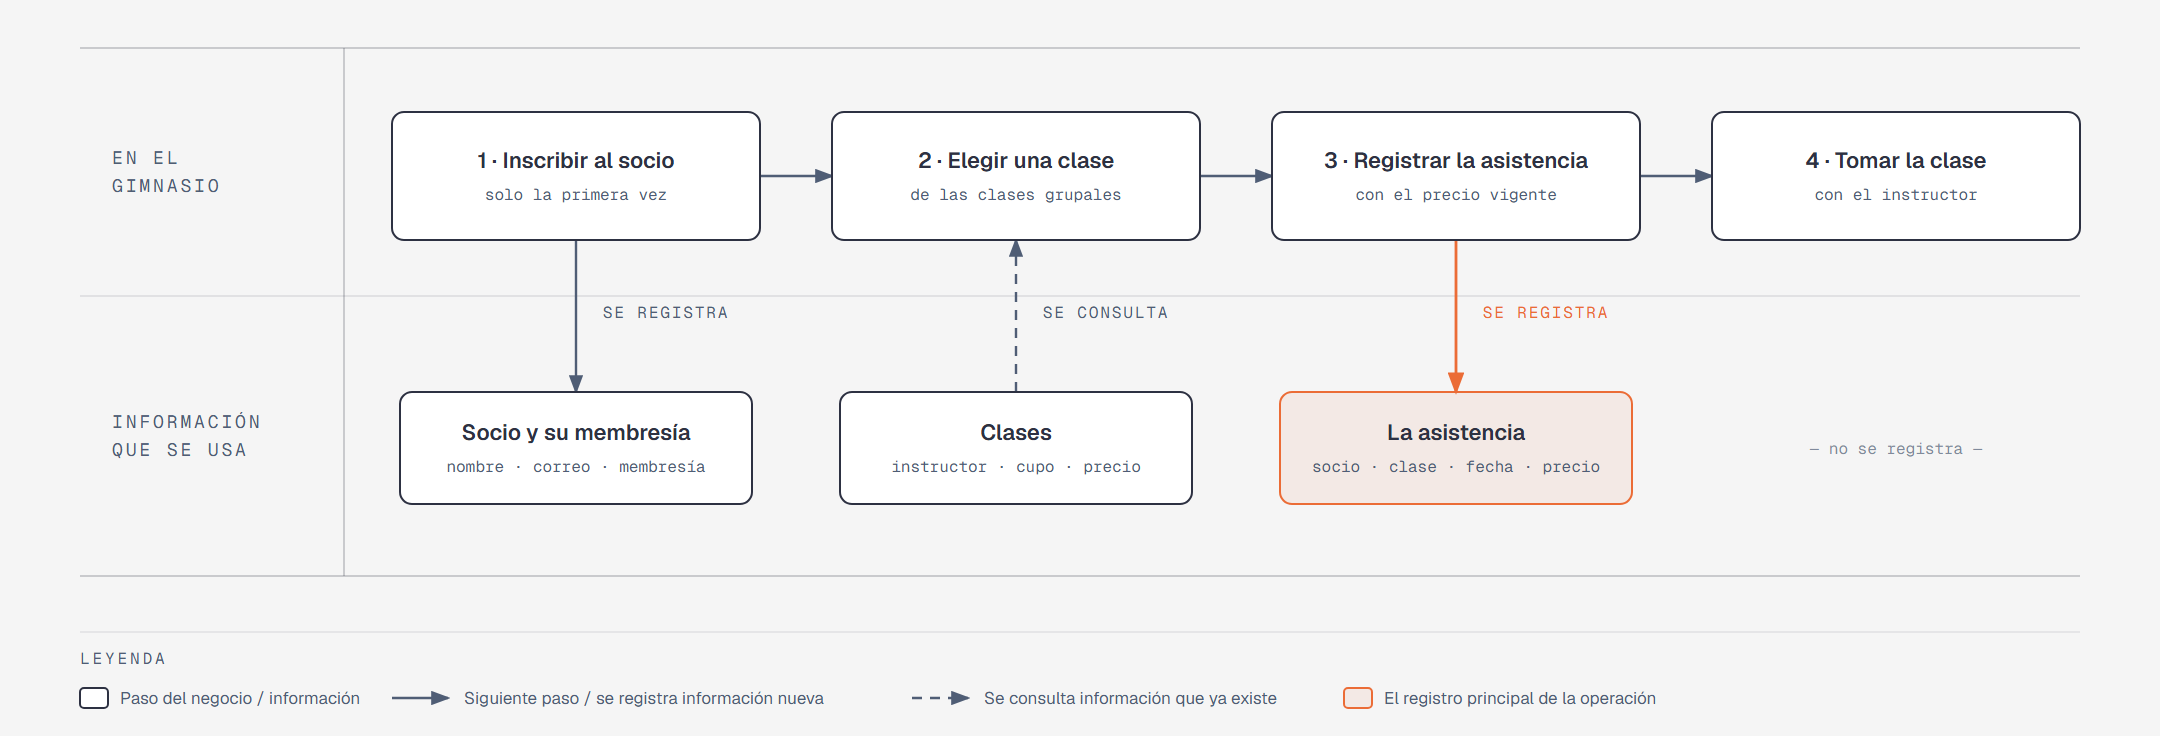
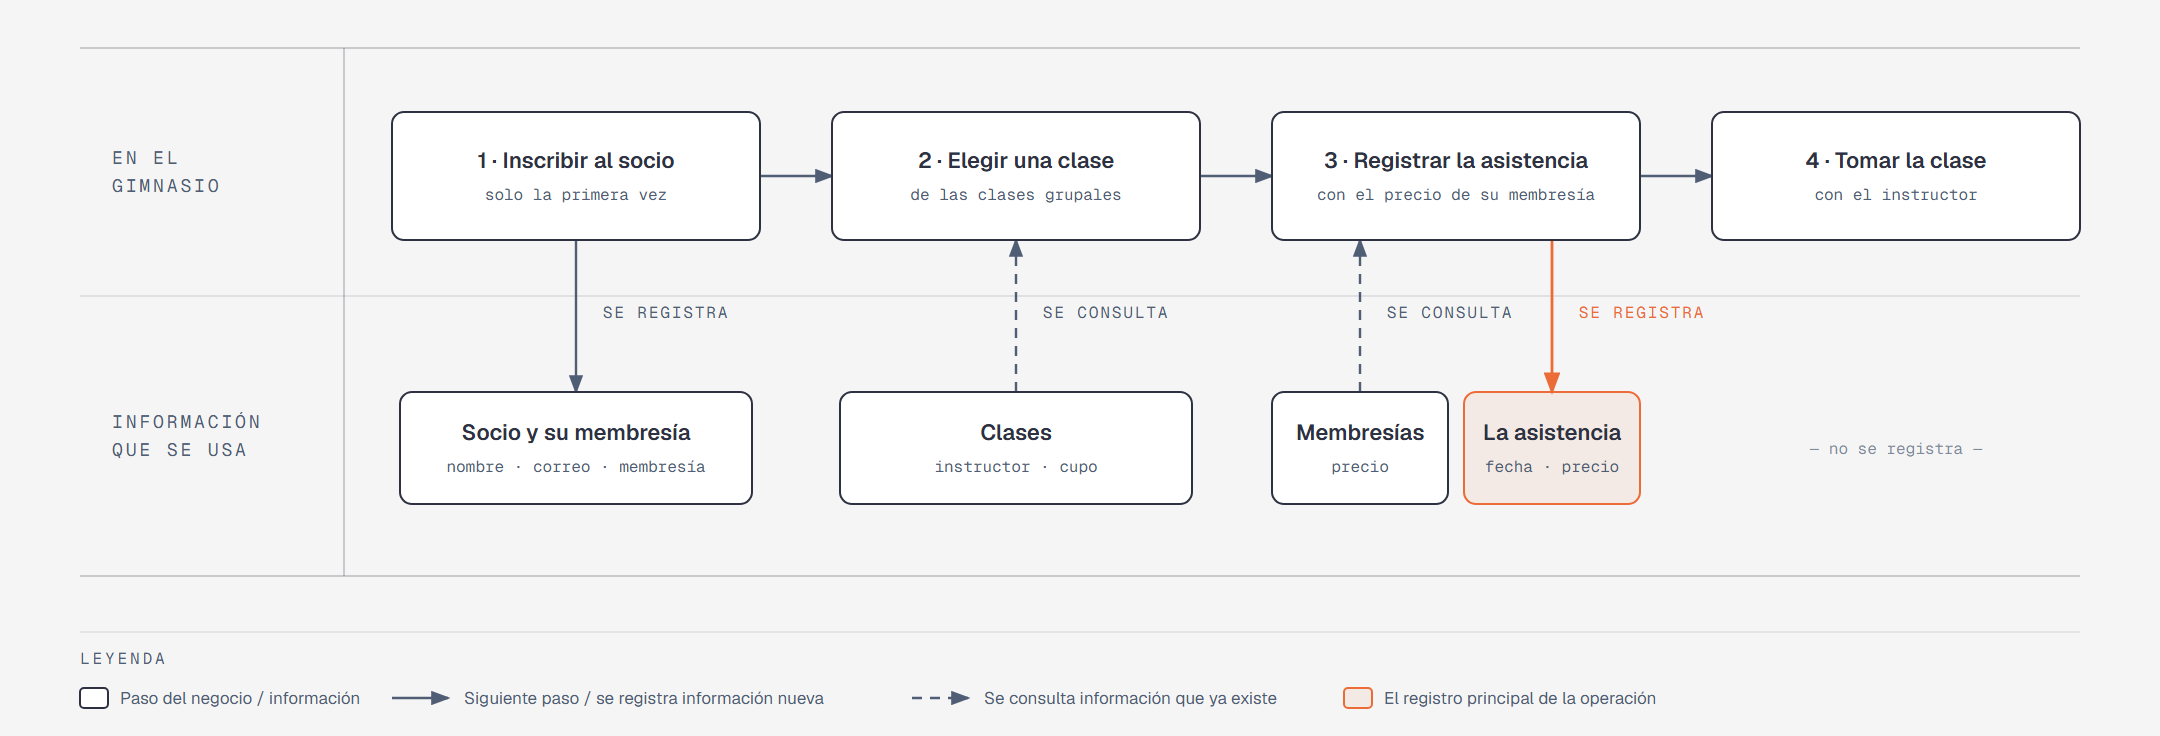
fix: FitZone define solo las membresías y el precio por clase depende de la membresía
Igual que BiciRuta, el negocio solo define el catálogo (tipos de membresía con costo mensual y precio por clase actual y anterior); las clases, los socios y las asistencias los inventa el alumno. Cada asistencia copia el precio por clase de la membresía del socio vigente en su fecha.

diff --git a/base-datos-1/3ra-5ta-oportunidad/alumnos/assets/alumno-02/flujo-negocio.html b/base-datos-1/3ra-5ta-oportunidad/alumnos/assets/alumno-02/flujo-negocio.html
@@ -22,7 +22,7 @@
     <div class="scroll">
     <svg viewBox="0 0 1080 368" xmlns="http://www.w3.org/2000/svg" role="img" aria-labelledby="flujo-negocio-title flujo-negocio-desc">
       <title id="flujo-negocio-title">FitZone · una clase de principio a fin</title>
-      <desc id="flujo-negocio-desc">Diagrama de carriles: el socio se inscribe la primera vez con un tipo de membresía, elige una clase grupal, paga el precio por clase vigente y toma la clase; abajo, la información que cada paso consulta o registra.</desc>
+      <desc id="flujo-negocio-desc">Diagrama de carriles: el socio se inscribe la primera vez con un tipo de membresía, elige una clase grupal, se registra la asistencia con el precio por clase vigente de su membresía y toma la clase; abajo, la información que cada paso consulta o registra.</desc>
       <defs>
         <marker id="arrow" markerWidth="8" markerHeight="6" refX="7" refY="3" orient="auto"><polygon points="0 0, 8 3, 0 6" fill="#4f5d75"/></marker>
         <marker id="arrow-accent" markerWidth="8" markerHeight="6" refX="7" refY="3" orient="auto"><polygon points="0 0, 8 3, 0 6" fill="#eb6c36"/></marker>
@@ -41,13 +41,16 @@
 <line x1="820" y1="88" x2="856" y2="88" stroke="#4f5d75" stroke-width="1.2" marker-end="url(#arrow)"/>
 <line x1="288" y1="120" x2="288" y2="196" stroke="#4f5d75" stroke-width="1.2" marker-end="url(#arrow)"/>
 <line x1="508" y1="196" x2="508" y2="120" stroke="#4f5d75" stroke-width="1.2" stroke-dasharray="5,4" marker-end="url(#arrow)"/>
-<line x1="728" y1="120" x2="728" y2="196" stroke="#eb6c36" stroke-width="1.4" marker-end="url(#arrow-accent)"/>
+<line x1="680" y1="196" x2="680" y2="120" stroke="#4f5d75" stroke-width="1.2" stroke-dasharray="5,4" marker-end="url(#arrow)"/>
+<line x1="776" y1="120" x2="776" y2="196" stroke="#eb6c36" stroke-width="1.4" marker-end="url(#arrow-accent)"/>
       <rect x="296" y="150" width="74" height="12" rx="2" fill="#f5f5f5"/>
 <text x="333" y="159" fill="#4f5d75" font-size="8" font-family="'Geist Mono', monospace" text-anchor="middle" letter-spacing="0.12em">SE REGISTRA</text>
 <rect x="516" y="150" width="74" height="12" rx="2" fill="#f5f5f5"/>
 <text x="553" y="159" fill="#4f5d75" font-size="8" font-family="'Geist Mono', monospace" text-anchor="middle" letter-spacing="0.12em">SE CONSULTA</text>
-<rect x="736" y="150" width="74" height="12" rx="2" fill="#f5f5f5"/>
-<text x="773" y="159" fill="#eb6c36" font-size="8" font-family="'Geist Mono', monospace" text-anchor="middle" letter-spacing="0.12em">SE REGISTRA</text>
+<rect x="688" y="150" width="74" height="12" rx="2" fill="#f5f5f5"/>
+<text x="725" y="159" fill="#4f5d75" font-size="8" font-family="'Geist Mono', monospace" text-anchor="middle" letter-spacing="0.12em">SE CONSULTA</text>
+<rect x="784" y="150" width="74" height="12" rx="2" fill="#f5f5f5"/>
+<text x="821" y="159" fill="#eb6c36" font-size="8" font-family="'Geist Mono', monospace" text-anchor="middle" letter-spacing="0.12em">SE REGISTRA</text>
       <rect x="196" y="56" width="184" height="64" rx="6" fill="#ffffff" stroke="#2d3142" stroke-width="1"/>
 <text x="288" y="84" fill="#2d3142" font-size="11" font-family="'Geist', sans-serif" text-anchor="middle" font-weight="600">1 · Inscribir al socio</text>
 <text x="288" y="100" fill="#4f5d75" font-size="8" font-family="'Geist Mono', monospace" text-anchor="middle">solo la primera vez</text>
@@ -56,7 +59,7 @@
 <text x="508" y="100" fill="#4f5d75" font-size="8" font-family="'Geist Mono', monospace" text-anchor="middle">de las clases grupales</text>
 <rect x="636" y="56" width="184" height="64" rx="6" fill="#ffffff" stroke="#2d3142" stroke-width="1"/>
 <text x="728" y="84" fill="#2d3142" font-size="11" font-family="'Geist', sans-serif" text-anchor="middle" font-weight="600">3 · Registrar la asistencia</text>
-<text x="728" y="100" fill="#4f5d75" font-size="8" font-family="'Geist Mono', monospace" text-anchor="middle">con el precio vigente</text>
+<text x="728" y="100" fill="#4f5d75" font-size="8" font-family="'Geist Mono', monospace" text-anchor="middle">con el precio de su membresía</text>
 <rect x="856" y="56" width="184" height="64" rx="6" fill="#ffffff" stroke="#2d3142" stroke-width="1"/>
 <text x="948" y="84" fill="#2d3142" font-size="11" font-family="'Geist', sans-serif" text-anchor="middle" font-weight="600">4 · Tomar la clase</text>
 <text x="948" y="100" fill="#4f5d75" font-size="8" font-family="'Geist Mono', monospace" text-anchor="middle">con el instructor</text>
@@ -65,10 +68,13 @@
 <text x="288" y="236" fill="#4f5d75" font-size="8" font-family="'Geist Mono', monospace" text-anchor="middle">nombre · correo · membresía</text>
 <rect x="420" y="196" width="176" height="56" rx="6" fill="#ffffff" stroke="#2d3142" stroke-width="1"/>
 <text x="508" y="220" fill="#2d3142" font-size="11" font-family="'Geist', sans-serif" text-anchor="middle" font-weight="600">Clases</text>
-<text x="508" y="236" fill="#4f5d75" font-size="8" font-family="'Geist Mono', monospace" text-anchor="middle">instructor · cupo · precio</text>
-<rect x="640" y="196" width="176" height="56" rx="6" fill="rgba(235,108,54,0.08)" stroke="#eb6c36" stroke-width="1"/>
-<text x="728" y="220" fill="#2d3142" font-size="11" font-family="'Geist', sans-serif" text-anchor="middle" font-weight="600">La asistencia</text>
-<text x="728" y="236" fill="#4f5d75" font-size="8" font-family="'Geist Mono', monospace" text-anchor="middle">socio · clase · fecha · precio</text>
+<text x="508" y="236" fill="#4f5d75" font-size="8" font-family="'Geist Mono', monospace" text-anchor="middle">instructor · cupo</text>
+<rect x="636" y="196" width="88" height="56" rx="6" fill="#ffffff" stroke="#2d3142" stroke-width="1"/>
+<text x="680" y="220" fill="#2d3142" font-size="11" font-family="'Geist', sans-serif" text-anchor="middle" font-weight="600">Membresías</text>
+<text x="680" y="236" fill="#4f5d75" font-size="8" font-family="'Geist Mono', monospace" text-anchor="middle">precio</text>
+<rect x="732" y="196" width="88" height="56" rx="6" fill="rgba(235,108,54,0.08)" stroke="#eb6c36" stroke-width="1"/>
+<text x="776" y="220" fill="#2d3142" font-size="11" font-family="'Geist', sans-serif" text-anchor="middle" font-weight="600">La asistencia</text>
+<text x="776" y="236" fill="#4f5d75" font-size="8" font-family="'Geist Mono', monospace" text-anchor="middle">fecha · precio</text>
 <text x="948" y="227" fill="#4f5d75" font-size="8" font-family="'Geist Mono', monospace" text-anchor="middle" opacity="0.7">— no se registra —</text>
       <line x1="40" y1="316" x2="1040" y2="316" stroke="rgba(45,49,66,0.10)" stroke-width="0.8"/>
 <text x="40" y="332" fill="#4f5d75" font-size="8" font-family="'Geist Mono', monospace" text-anchor="start" letter-spacing="0.18em">LEYENDA</text>

diff --git a/base-datos-1/3ra-5ta-oportunidad/alumnos/alumno-02.md b/base-datos-1/3ra-5ta-oportunidad/alumnos/alumno-02.md
@@ -9,13 +9,13 @@
 
 ## Historia de usuario
 
-**Como** dueño de FitZone, **quiero** una base de datos que registre a mis socios, mis clases grupales y cada vez que un socio toma una clase, **para** saber qué clases se llenan más, cuánto se cobró por ellas y qué socios inscritos nunca han tomado una clase.
+**Como** dueño de FitZone, **quiero** una base de datos que registre a mis socios, mis clases grupales y cada vez que un socio toma una clase, **para** saber qué clases se toman más, cuánto se cobró por ellas y qué socios inscritos nunca han tomado una clase.
 
 ## El negocio
 
-FitZone es un gimnasio. Vende **membresías mensuales** de distintos tipos: Básica, Plus y Premium. Cada tipo de membresía tiene su **costo mensual** y da acceso al área de pesas y cardio.
+FitZone es un gimnasio. Vende **membresías mensuales** de tres tipos: Básica, Plus y Premium. Cada tipo de membresía tiene su **costo mensual**, que da acceso al área de pesas y cardio.
 
-Además, FitZone ofrece **clases grupales**: Spinning, Yoga, Box y otras. Cada clase tiene un nombre que no se repite, un **instructor** y un **cupo máximo** de personas. Las clases **no están incluidas en la membresía**: se pagan aparte, **por clase**, y cada una tiene su propio precio. **Los precios de las clases cambian**: el 1 de abril de 2026 subieron los de algunas. Aun así, el negocio necesita saber **cuánto se cobró cada vez que un socio tomó una clase**, con el precio que tenía la clase ese día.
+Además, FitZone ofrece **clases grupales**, como Spinning, Yoga o Box. Cada clase tiene un nombre que no se repite, un **instructor** y un **cupo máximo** de personas. Las clases **no están incluidas en la membresía**: se pagan aparte, **por clase**, y el **precio por clase depende de la membresía del socio**; quien paga una membresía más cara, paga menos por cada clase. **Los precios por clase cambian**: el 1 de abril de 2026 subieron los de dos membresías. Aun así, el negocio necesita saber **cuánto se cobró cada vez que un socio tomó una clase**, con el precio que tenía su membresía ese día.
 
 Los **socios** se inscriben una sola vez, con un tipo de membresía, su nombre, su correo electrónico y la fecha de inscripción. El correo identifica al socio en recepción: no puede haber dos socios con el mismo. Cuando un socio cancela su membresía, se le **da de baja**, pero no se borra, para conservar su historial de clases.
 
@@ -23,30 +23,17 @@ Los **socios** se inscriben una sola vez, con un tipo de membresía, su nombre, 
 
 Estos datos **no los inventas**: son los que FitZone ya tiene. Tu base de datos debe guardarlos **exactamente así**, con los mismos nombres y valores.
 
-**Tipos de membresía**
+**Tipos de membresía, costo mensual y precio por clase**
 
-| Membresía | Costo mensual |
-|---|---|
-| Básica | $450.00 |
-| Plus | $650.00 |
-| Premium | $900.00 |
+El **1 de abril de 2026** subió el precio por clase de las membresías Básica y Plus. El de Premium no cambió. El costo mensual de las tres tampoco cambió.
 
-**Clases grupales y precio por clase**
+| Membresía | Costo mensual | Precio por clase actual (desde el 1 de abril de 2026) | Precio por clase anterior (hasta el 31 de marzo de 2026) |
+|---|---|---|---|
+| Básica | $450.00 | $100.00 | $90.00 |
+| Plus | $650.00 | $80.00 | $70.00 |
+| Premium | $900.00 | $60.00 | $60.00 |
 
-El **1 de abril de 2026** subieron los precios de Spinning, Box, Pilates, CrossFit y Body Pump. Los de las demás clases no cambiaron.
-
-| Clase | Instructor | Cupo máximo | Precio actual (desde el 1 de abril de 2026) | Precio anterior (hasta el 31 de marzo de 2026) |
-|---|---|---|---|---|
-| Spinning | Ricardo Ávila | 20 | $90.00 | $80.00 |
-| Yoga | Mariana Leal | 15 | $80.00 | $80.00 |
-| Box | Óscar Treviño | 12 | $100.00 | $90.00 |
-| Pilates | Sofía Garza | 10 | $110.00 | $100.00 |
-| Zumba | Paola Ramírez | 25 | $70.00 | $70.00 |
-| CrossFit | Arturo Cavazos | 16 | $120.00 | $110.00 |
-| Body Pump | Ricardo Ávila | 20 | $90.00 | $85.00 |
-| Stretching | Mariana Leal | 12 | $60.00 | $60.00 |
-
-Todo lo demás (socios y clases tomadas) **lo inventas tú**, cumpliendo los mínimos de [Lo que debes construir](#lo-que-debes-construir).
+Todo lo demás (clases, socios y clases tomadas) **lo inventas tú**, cumpliendo los mínimos de [Lo que debes construir](#lo-que-debes-construir).
 
 ## Flujo de negocio
 
@@ -57,11 +44,11 @@ Así funciona una operación de principio a fin. Arriba, lo que pasa en el gimna
 Con detalle, una socia imaginaria (Andrea) recorriendo el flujo:
 
 1. **Andrea llega por primera vez** a FitZone y contrata la membresía Plus. En recepción le piden su nombre y su correo, y la **inscriben como socia** con esa membresía y la fecha de hoy. Si Andrea regresa otro día, ya no se le inscribe de nuevo: se le busca por su correo.
-2. **Andrea quiere tomar Spinning.** La recepcionista revisa la clase: quién la imparte, cuál es su cupo y su **precio por clase vigente**: hoy, $90.00.
-3. **Se registra la asistencia**: socia Andrea, clase Spinning, fecha de hoy y el precio con el que se le cobra ($90.00). Andrea paga la clase.
-4. **Andrea toma la clase** con Ricardo Ávila. Lo que pasa dentro de la clase no se registra en la base de datos.
+2. **Andrea quiere tomar Spinning.** La recepcionista revisa la clase: quién la imparte y cuál es su cupo.
+3. **Se registra la asistencia.** La recepcionista revisa el **precio por clase vigente** de la membresía de Andrea (Plus): hoy, $80.00. Registra la asistencia: socia Andrea, clase Spinning, fecha de hoy y el precio con el que se le cobra ($80.00). Andrea paga la clase.
+4. **Andrea toma la clase** con su instructor. Lo que pasa dentro de la clase no se registra en la base de datos.
 
-Si el mes siguiente Spinning sube a $95.00, la asistencia de Andrea tiene que seguir diciendo que se le cobró a $90.00.
+Si el mes siguiente el precio por clase de Plus sube a $85.00, la asistencia de Andrea tiene que seguir diciendo que se le cobró a $80.00. Y si Andrea se cambia después a Premium, sus asistencias anteriores también conservan lo que pagó.
 
 Dos días después, Andrea toma Yoga: es otra asistencia, de la misma socia y de otra clase. Ese mismo día, otros socios toman Spinning. Así, **un socio acumula muchas asistencias y una clase también**.
 
@@ -70,8 +57,8 @@ Dos días después, Andrea toma Yoga: es otra asistencia, de la misma socia y de
 - Cada socio tiene **un solo** tipo de membresía.
 - No puede haber dos tipos de membresía con el mismo nombre, ni dos clases con el mismo nombre.
 - No puede haber dos socios con el mismo correo electrónico.
-- El costo mensual de una membresía, el cupo máximo de una clase y el precio de una clase siempre son **mayores a cero**.
-- Cuando cambia el precio de una clase, las asistencias que ya se registraron **conservan el precio con el que se cobraron**.
+- El costo mensual, el precio por clase y el cupo máximo de una clase siempre son **mayores a cero**.
+- Cuando cambia el precio por clase de una membresía, las asistencias que ya se registraron **conservan el precio con el que se cobraron**.
 - Un socio nuevo se registra como **activo**.
 
 ## Lo que debes construir
@@ -79,12 +66,14 @@ Dos días después, Andrea toma Yoga: es otra asistencia, de la misma socia y de
 1. El **modelo relacional**, con al menos 4 tablas, que guarde toda la información de arriba y respete las reglas de negocio con restricciones (`PRIMARY KEY`, `FOREIGN KEY`, `UNIQUE`, `CHECK`, `DEFAULT`).
 2. El **paquete de instalación** y el **paquete de reversa** de `FitZoneDB`.
 3. **Datos iniciales:**
-   - **Lo que el negocio ya tiene definido**, exactamente como viene arriba: los 3 tipos de membresía y las 8 clases con su **precio actual**.
-   - **Lo que tú inventas**, como mínimo: 10 socios y 20 asistencias, con
+   - **Lo que el negocio ya tiene definido**, exactamente como viene arriba: los 3 tipos de membresía con su costo mensual y su **precio por clase actual**.
+   - **Lo que tú inventas**, como mínimo: 8 clases, 10 socios y 20 asistencias, con
+     - socios de los tres tipos de membresía;
+     - clases con cupo máximo mayor a 15 personas;
      - 2 socios que nunca hayan tomado una clase;
      - 2 clases que nunca se hayan tomado;
      - al menos 1 socio dado de baja;
-     - asistencias antes **y** después del 1 de abril de 2026, de clases cuyo precio cambió y de clases cuyo precio no cambió: cada asistencia se cobra con el precio que tenía la clase **en la fecha de la asistencia** (precio anterior hasta el 31 de marzo, precio actual desde el 1 de abril);
+     - asistencias antes **y** después del 1 de abril de 2026, de socios de las tres membresías: cada asistencia se cobra con el precio por clase que tenía la membresía del socio **en la fecha de la asistencia** (precio anterior hasta el 31 de marzo, precio actual desde el 1 de abril);
      - asistencias en marzo de 2026;
      - socios con correo `@gmail.com`.
 4. **Las 10 consultas** de abajo.
@@ -98,8 +87,8 @@ Dos días después, Andrea toma Yoga: es otra asistencia, de la misma socia y de
 | 3 | Lista los socios cuyo correo electrónico termina en `@gmail.com`. |
 | 4 | Lista las asistencias de marzo de 2026, ordenadas por fecha. |
 | 5 | Muestra las 5 clases con mayor cupo máximo. |
-| 6 | Muestra cada socio con el nombre de su tipo de membresía y su costo mensual. |
-| 7 | Muestra las asistencias que se cobraron con un precio distinto al precio actual de su clase, con el precio cobrado y el precio actual. |
+| 6 | Muestra cada socio con el nombre de su tipo de membresía, su costo mensual y su precio por clase actual. |
+| 7 | Muestra las asistencias que se cobraron con un precio distinto al precio por clase actual de la membresía del socio, con el precio cobrado y el precio actual. |
 | 8 | Muestra cada asistencia con el nombre del socio, el nombre de la clase, su instructor y el precio cobrado. |
 | 9 | Lista los socios que nunca han tomado una clase. |
 | 10 | Lista las clases que nunca se han tomado. |
